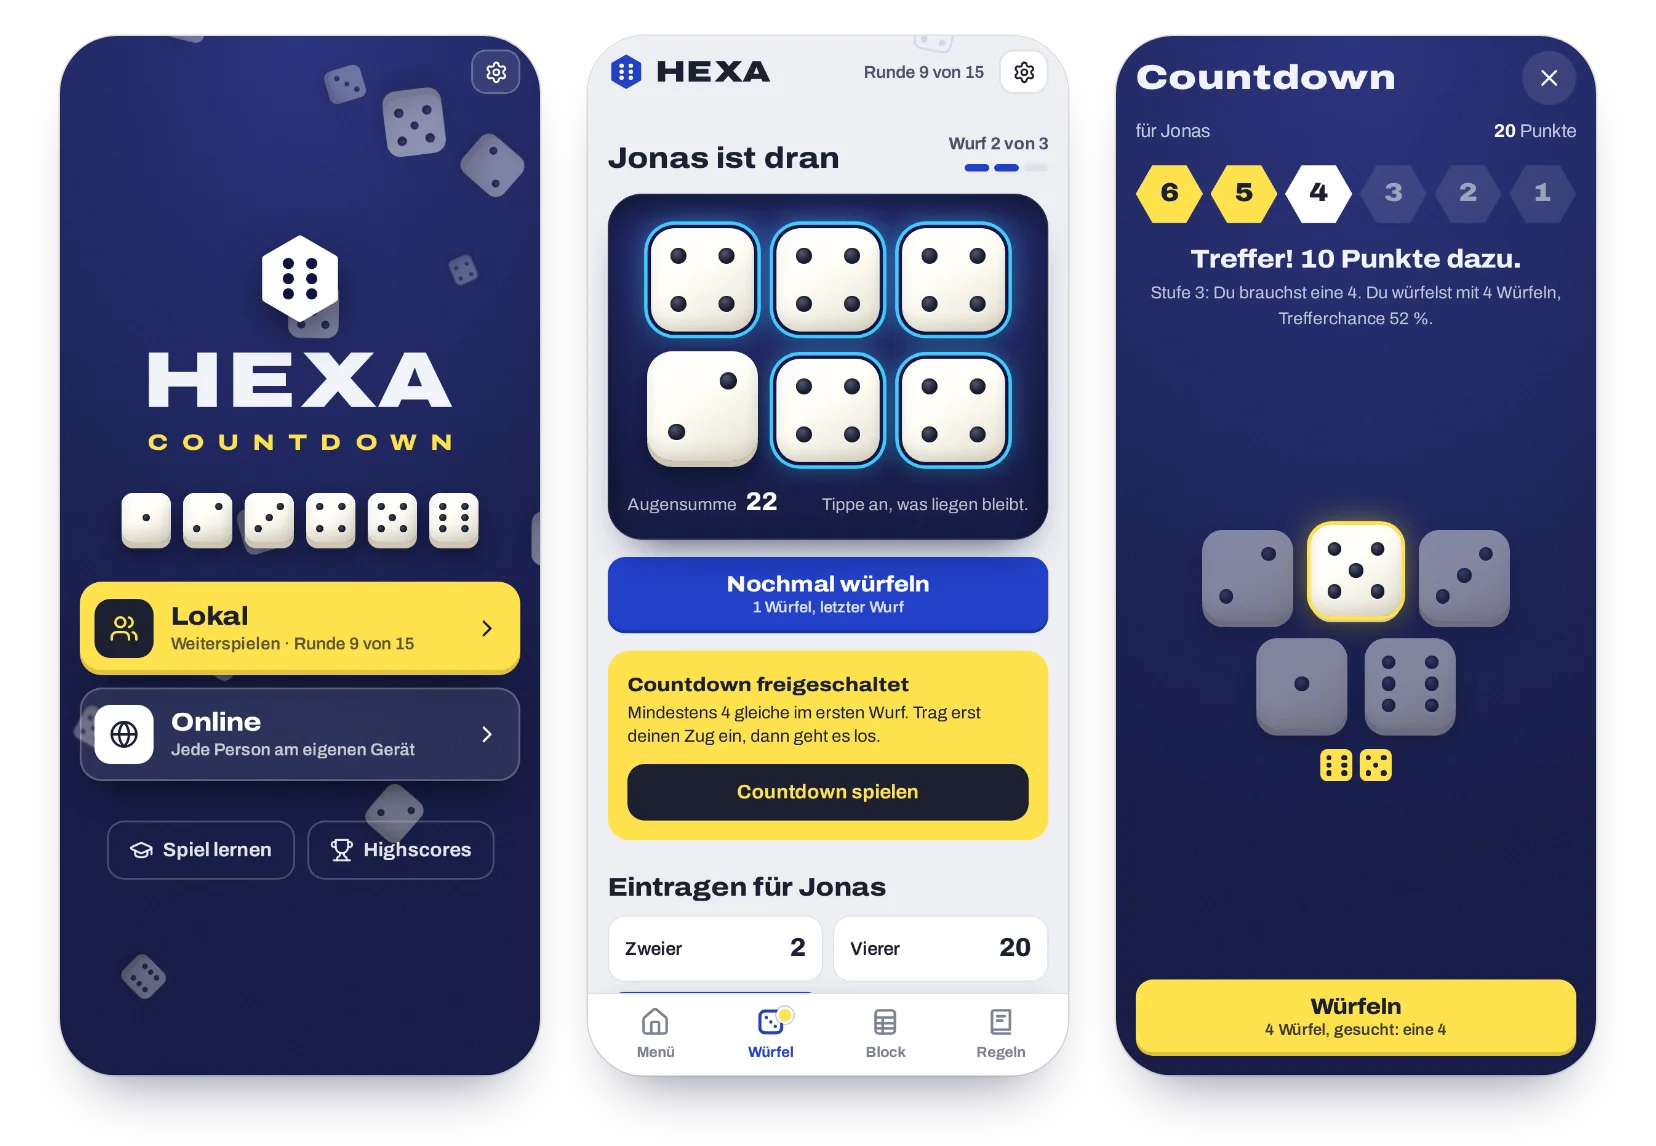
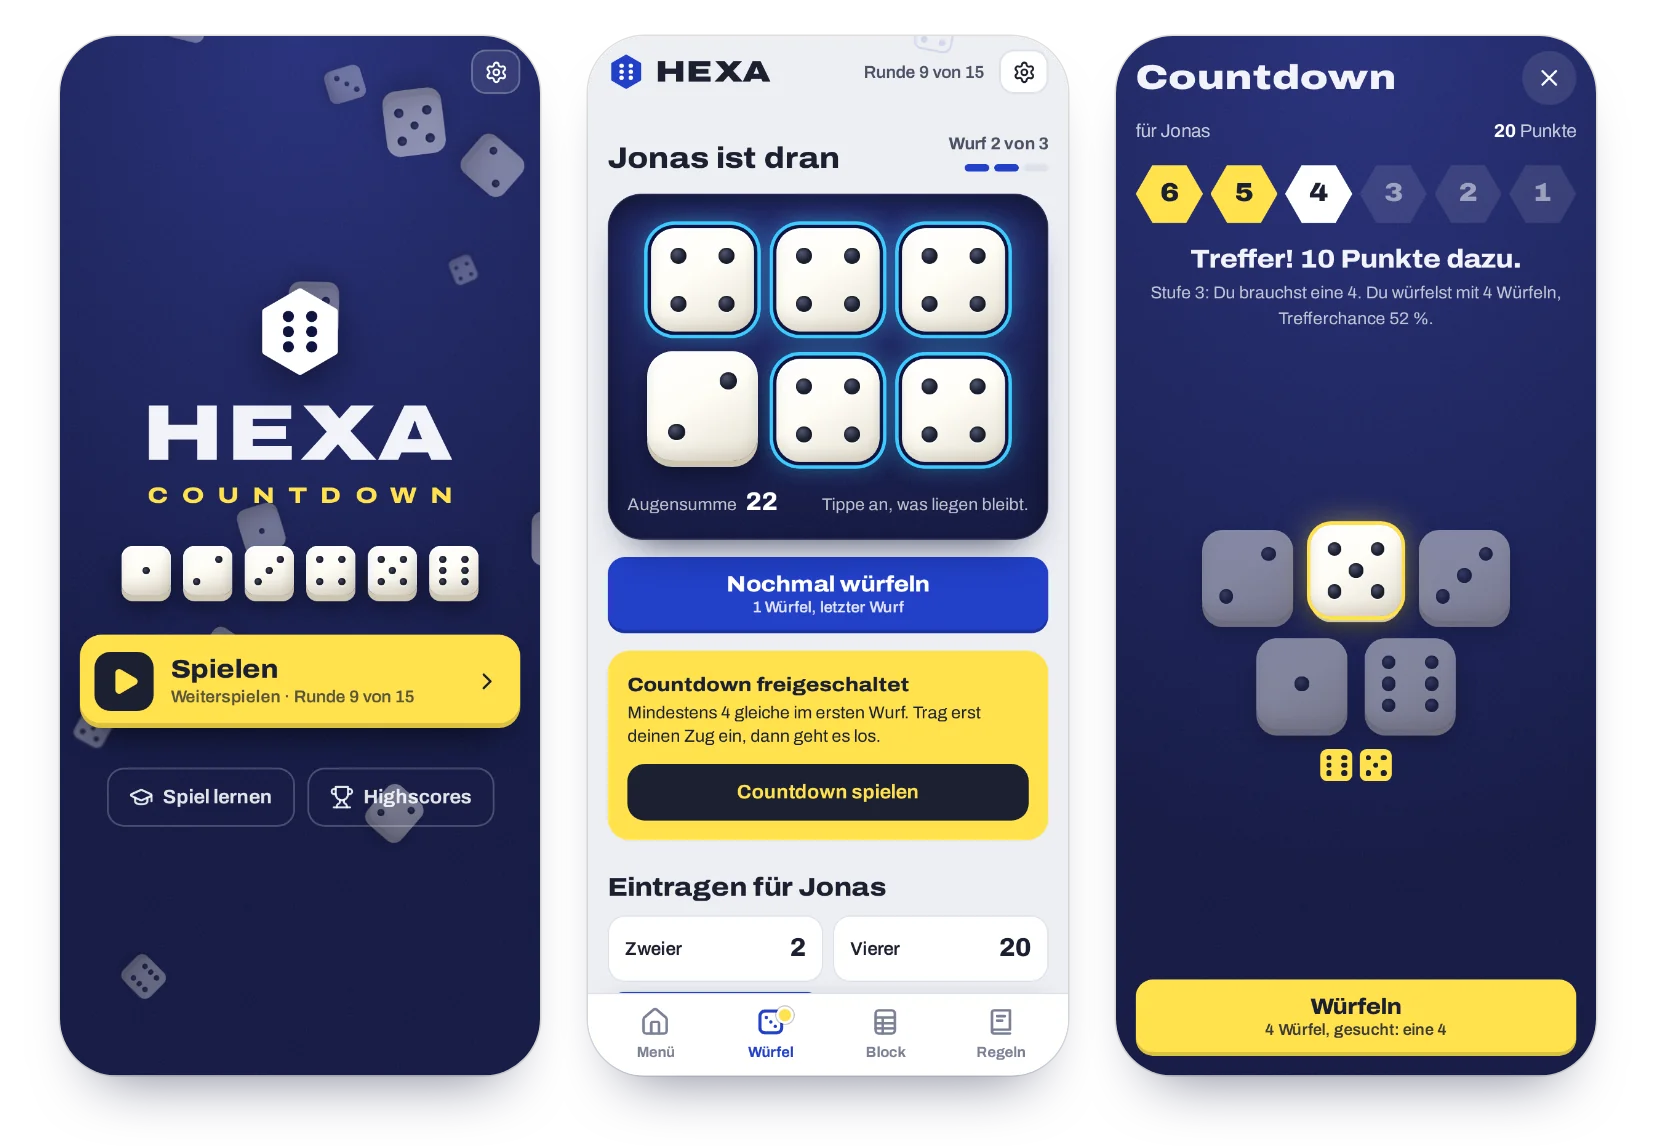
Hauptmenü: ein Knopf „Spielen“, danach Lokal oder Online
„Lokal“ stach als großer gelber Knopf heraus, „Online“ wirkte daneben
nebensächlich. Jetzt gibt es einen gelben Knopf „Spielen“. Er öffnet
ein Fenster mit „Lokal“ und „Online“, beide gleichwertig, im selben
Stil wie „Spiel lernen“.

Läuft noch ein Spiel, steht das direkt unter „Spielen“: „Weiterspielen ·
Runde 9 von 15“, „Weiterspielen · Lobby ABCD“ oder bei beiden
„Weiterspielen · lokal und online“. Sonst „Lokal oder online“. Im
Fenster stehen die Zeilen wie bisher unter „Lokal“ und „Online“.

Texte, die auf „Lokal“ oder „Online“ im Menü verwiesen haben, zeigen
jetzt auf „Spielen“. README, Changelog, Lizenzhinweise (Lucide play),
Titelbild und Vorschaubild sind angepasst.

Claude-Session: https://claude.ai/code/session_01EyxE22HJnkbi7Dpw29RZbE

Changed region(s): [[0.0308, 0.2138, 0.3388, 0.7635]]

diff --git a/js/app.js b/js/app.js
@@ -44,6 +44,7 @@
     enter: svg('<path d="m10 17 5-5-5-5"/><path d="M15 12H3"/><path d="M15 3h4a2 2 0 0 1 2 2v14a2 2 0 0 1-2 2h-4"/>'),
     copy: svg('<rect width="14" height="14" x="8" y="8" rx="2" ry="2"/><path d="M4 16c-1.1 0-2-.9-2-2V4c0-1.1.9-2 2-2h10c1.1 0 2 .9 2 2"/>'),
     rules: svg('<path d="M5 4.5A1.5 1.5 0 0 1 6.5 3H19v15H6.5A1.5 1.5 0 0 0 5 19.5z"/><path d="M5 19.5A1.5 1.5 0 0 0 6.5 21H19"/><path d="M9 7.5h6"/><path d="M9 11h4"/>'),
+    users: svg('<path d="M16 21v-2a4 4 0 0 0-4-4H6a4 4 0 0 0-4 4v2"/><path d="M16 3.128a4 4 0 0 1 0 7.744"/><path d="M22 21v-2a4 4 0 0 0-3-3.87"/><circle cx="9" cy="7" r="4"/>'),
     pip: '<svg class="pip-face" viewBox="0 0 40 40" aria-hidden="true"><path class="pf-body" d="M20 3 34.7 11.5v17L20 37 5.3 28.5v-17z"/>'
       + '<ellipse class="pf-eye" cx="14.3" cy="17.6" rx="3.8" ry="4.5"/><ellipse class="pf-eye" cx="25.7" cy="17.6" rx="3.8" ry="4.5"/>'
       + '<circle class="pf-pupil" cx="14.3" cy="17.9" r="2.2"/><circle class="pf-pupil" cx="25.7" cy="17.9" r="2.2"/>'
@@ -1977,13 +1978,43 @@
   }
 
   /* ---------- Startbildschirm ---------- */
-  function renderStart() {
-    const sub = $('#localSub');
-    if (!state.started) sub.textContent = tr('start.localNew');
-    else if (isOver()) sub.textContent = tr('start.localOver');
-    else sub.textContent = tr('start.localResume', { r: roundNo(), total: NF });
+  // Ein Knopf „Spielen“, darunter steht, ob noch ein Spiel läuft. Lokal oder online wählt man im Fenster danach.
+  function startSubs() {
     const code = Online.code();
-    $('#onlineSub').textContent = code ? tr('online.startResume', { code }) : tr('online.startSub');
+    const resume = state.started && !isOver();
+    return {
+      resume,
+      code,
+      local: !state.started ? tr('start.localNew') : isOver() ? tr('start.localOver') : tr('start.localResume', { r: roundNo(), total: NF }),
+      online: code ? tr('online.startResume', { code }) : tr('online.startSub'),
+    };
+  }
+
+  function renderStart() {
+    const s = startSubs();
+    $('#playSub').textContent = s.resume && s.code ? tr('start.playBoth')
+      : s.resume ? s.local
+        : s.code ? s.online
+          : tr('start.playSub');
+  }
+
+  function openPlay() {
+    const s = startSubs();
+    const choice = (act, icon, title, sub) => `
+          <button type="button" class="choice" data-act="sheet-do" data-do="${act}">
+            <span class="choice-ic">${ICON[icon]}</span>
+            <span class="choice-tx"><span class="choice-t">${title}</span><span class="choice-s">${sub}</span></span>
+          </button>`;
+    openSheet(`
+      <h3 class="s-title">${tr('start.play')}</h3>
+      <div class="choices">
+        ${choice('local', 'users', tr('start.local'), s.local)}
+        ${choice('online', 'globe', tr('start.online'), s.online)}
+      </div>
+      <div class="s-acts"><button type="button" class="btn btn-quiet" data-act="sheet-close">${tr('common.close')}</button></div>`, {
+      local: () => { closeSheet(true); enterLocal(); },
+      online: () => { closeSheet(true); enterOnline(); },
+    }, tr('start.play'));
   }
 
   // Sechs Würfel mit 1 bis 6, die beim Erscheinen einmal kurz rollen
@@ -2007,7 +2038,7 @@
     syncSky();
     rollStartDice();
     syncTheme();
-    const b = $('#start [data-act="local"]');
+    const b = $('#start [data-act="play"]');
     try { b.focus({ preventScroll: true }); } catch (e) { /* egal */ }
   }
 
@@ -2789,8 +2820,7 @@
     switch (t.dataset.act) {
       case 'tab': setTab(t.dataset.tab); break;
       case 'duo': toggleDuo(); break;
-      case 'local': enterLocal(); break;
-      case 'online': enterOnline(); break;
+      case 'play': openPlay(); break;
       case 'ol-home': exitOnline(); break;
       case 'ol-create': { const name = onlineNameFromInput(); if (name) olRequest({ t: 'create', name }); break; }
       case 'ol-join': openJoin(); break;

diff --git a/index.html b/index.html
@@ -46,15 +46,10 @@
       <h1 class="start-name" id="startName">HEXA<span class="sr">: </span><span class="start-sub">Countdown</span></h1>
     </header>
     <div class="start-dice" id="startDice" aria-hidden="true"></div>
-    <div class="start-modes" role="group" data-i18n-label="start.modes">
-      <button type="button" class="mode mode-local" data-act="local">
-        <span class="mode-ic"><svg viewBox="0 0 24 24" fill="none" stroke="currentColor" stroke-width="2" stroke-linecap="round" stroke-linejoin="round" aria-hidden="true"><path d="M16 21v-2a4 4 0 0 0-4-4H6a4 4 0 0 0-4 4v2"/><path d="M16 3.128a4 4 0 0 1 0 7.744"/><path d="M22 21v-2a4 4 0 0 0-3-3.87"/><circle cx="9" cy="7" r="4"/></svg></span>
-        <span class="mode-tx"><span class="mode-t" data-i18n="start.local"></span><span class="mode-s" id="localSub"></span></span>
-        <svg viewBox="0 0 24 24" fill="none" stroke="currentColor" stroke-width="2" stroke-linecap="round" stroke-linejoin="round" class="mode-go" aria-hidden="true"><path d="m9 6 6 6-6 6"/></svg>
-      </button>
-      <button type="button" class="mode mode-online" data-act="online">
-        <span class="mode-ic"><svg viewBox="0 0 24 24" fill="none" stroke="currentColor" stroke-width="2" stroke-linecap="round" stroke-linejoin="round" aria-hidden="true"><circle cx="12" cy="12" r="10"/><path d="M12 2a14.5 14.5 0 0 0 0 20 14.5 14.5 0 0 0 0-20"/><path d="M2 12h20"/></svg></span>
-        <span class="mode-tx"><span class="mode-t" data-i18n="start.online"></span><span class="mode-s" id="onlineSub"></span></span>
+    <div class="start-modes">
+      <button type="button" class="mode mode-play" data-act="play">
+        <span class="mode-ic"><svg viewBox="0 0 24 24" fill="none" stroke="currentColor" stroke-width="2" stroke-linecap="round" stroke-linejoin="round" aria-hidden="true"><path d="M5 5a2 2 0 0 1 3.008-1.728l11.997 6.998a2 2 0 0 1 .003 3.458l-12 7A2 2 0 0 1 5 19z" fill="currentColor"/></svg></span>
+        <span class="mode-tx"><span class="mode-t" data-i18n="start.play"></span><span class="mode-s" id="playSub"></span></span>
         <svg viewBox="0 0 24 24" fill="none" stroke="currentColor" stroke-width="2" stroke-linecap="round" stroke-linejoin="round" class="mode-go" aria-hidden="true"><path d="m9 6 6 6-6 6"/></svg>
       </button>
     </div>

diff --git a/css/hexa.css b/css/hexa.css
@@ -942,17 +942,10 @@ html:not(.ready) .start-in > :not(noscript) { visibility: hidden; }
 .mode-t { display: block; font-size: 21px; font-weight: 800; font-stretch: 112%; line-height: 1.15; }
 .mode-s { display: block; margin-top: 2px; font-size: 14px; font-weight: 600; line-height: 1.3; text-wrap: balance; }
 .mode-go { width: 22px; height: 22px; }
-.mode-local { background: var(--marker); color: #1C2030; box-shadow: inset 0 -4px 0 rgba(0, 0, 0, .14), 0 18px 30px -18px rgba(0, 0, 0, .8); }
-.mode-local .mode-ic { background: #1C2030; color: var(--marker); }
-.mode-local .mode-s { color: rgba(28, 32, 48, .72); }
-.mode-online {
-  background: rgba(255, 255, 255, .09); color: #FFFFFF;
-  box-shadow: inset 0 0 0 1.5px rgba(255, 255, 255, .24), 0 18px 30px -18px rgba(0, 0, 0, .8);
-  transition: transform .1s ease, background-color .15s ease;
-}
-.mode-online .mode-ic { background: #FFFFFF; color: #1C2030; }
-.mode-online .mode-s { color: rgba(255, 255, 255, .74); }
-@media (hover: hover) { .mode-online:hover { background: rgba(255, 255, 255, .15); } }
+.mode-play { background: var(--marker); color: #1C2030; box-shadow: inset 0 -4px 0 rgba(0, 0, 0, .14), 0 18px 30px -18px rgba(0, 0, 0, .8); }
+.mode-play .mode-ic { background: #1C2030; color: var(--marker); }
+.mode-play .mode-ic svg { margin-left: 2px; }
+.mode-play .mode-s { color: rgba(28, 32, 48, .72); }
 .start-links { display: flex; flex-wrap: wrap; justify-content: center; gap: 10px; }
 .start-set {
   display: inline-flex; align-items: center; gap: 8px; min-height: 48px; padding: 10px 18px;

diff --git a/lang/de.js b/lang/de.js
@@ -25,7 +25,9 @@
     },
 
     start: {
-      modes: 'Spielmodus',
+      play: 'Spielen',
+      playSub: 'Lokal oder online',
+      playBoth: 'Weiterspielen · lokal und online',
       local: 'Lokal',
       localNew: 'Ein Gerät, reihum spielen',
       localOver: 'Spiel beendet · Ergebnis ansehen',
@@ -314,7 +316,7 @@
       round: 'Ihr seid in Runde {r} von {total}.',
       cdOpen: 'Alle Runden sind gespielt, nur der Countdown ist noch offen.',
       pause: 'Pausieren',
-      pauseSub: 'Das Spiel bleibt gespeichert. Im Menü geht es mit „Lokal“ weiter.',
+      pauseSub: 'Das Spiel bleibt gespeichert. Im Menü geht es mit „Spielen“ weiter.',
       abort: 'Spiel abbrechen',
       abortSub: 'Alle Punkte werden gelöscht. Es gibt keinen Highscore.',
       back: 'Zurück zum Spiel',
@@ -417,7 +419,7 @@
       playerOff: '{name}, gerade nicht verbunden',
       menuNote: 'Runde {r} von {total} · Lobby {code}',
       away: 'Zum Hauptmenü',
-      awaySub: 'Das Spiel läuft ohne dich weiter. Bei jedem verpassten Zug wird ein Feld gestrichen. Über „Online“ kommst du zurück.',
+      awaySub: 'Das Spiel läuft ohne dich weiter. Bei jedem verpassten Zug wird ein Feld gestrichen. Über „Spielen“ kommst du zurück.',
       leaveGame: 'Spiel verlassen',
       leaveGameSub: 'Du bist raus, deine Punkte sind weg.',
       leaveTitle: 'Spiel wirklich verlassen?',

diff --git a/lang/en.js b/lang/en.js
@@ -23,7 +23,9 @@
     },
 
     start: {
-      modes: 'Game mode',
+      play: 'Play',
+      playSub: 'Local or online',
+      playBoth: 'Continue · local and online',
       local: 'Local',
       localNew: 'One device, take turns',
       localOver: 'Game over · See the results',
@@ -312,7 +314,7 @@
       round: 'You’re in round {r} of {total}.',
       cdOpen: 'All rounds have been played, only the Countdown is still open.',
       pause: 'Pause',
-      pauseSub: 'The game is saved. Tap “Local” in the menu to carry on.',
+      pauseSub: 'The game is saved. Tap “Play” in the menu to carry on.',
       abort: 'Quit game',
       abortSub: 'All points will be deleted. There’s no high score.',
       back: 'Back to the game',
@@ -415,7 +417,7 @@
       playerOff: '{name}, not connected right now',
       menuNote: 'Round {r} of {total} · Lobby {code}',
       away: 'To the main menu',
-      awaySub: 'The game goes on without you. Each missed turn strikes a field. Tap “Online” to come back.',
+      awaySub: 'The game goes on without you. Each missed turn strikes a field. Tap “Play” to come back.',
       leaveGame: 'Leave game',
       leaveGameSub: 'You are out and your points are gone.',
       leaveTitle: 'Really leave the game?',

diff --git a/README.md b/README.md
@@ -36,7 +36,7 @@ Die App ersetzt Würfel, Becher, Block und Stift. Ihr gebt einfach das Handy rei
 
 ## So läuft ein Spiel
 
-1. Im Hauptmenü **Lokal** wählen und eintragen, wer mitspielt. Mit **Bot hinzufügen** kommen Computergegner dazu.
+1. Im Hauptmenü auf **Spielen** tippen, **Lokal** wählen und eintragen, wer mitspielt. Mit **Bot hinzufügen** kommen Computergegner dazu.
 2. Entscheiden, **womit ihr würfelt**: mit der App oder mit euren eigenen Würfeln. Den Spielblock führt die App in beiden Fällen. Mit Bots würfelt immer die App.
 3. Reihum spielen. Über **Menü** könnt ihr jederzeit pausieren und später weitermachen.
 4. Nach 15 Runden auf **Spiel beenden** tippen. Das Ergebnis zeigt die Platzierung, die Punkte landen in den **Highscores**.
@@ -52,13 +52,13 @@ Die App ersetzt Würfel, Becher, Block und Stift. Ihr gebt einfach das Handy rei
 
 Jede Person spielt am eigenen Handy, egal wo. Es gibt keine Konten, nur Spitznamen.
 
-1. Im Hauptmenü **Online** wählen und einen Spitznamen eingeben.
+1. Im Hauptmenü auf **Spielen** tippen, **Online** wählen und einen Spitznamen eingeben.
 2. Eine Person tippt auf **Lobby erstellen** und bekommt einen Code aus 4 Buchstaben. Die anderen tippen auf **Lobby beitreten** und geben den Code ein.
 3. Der Host legt die Reihenfolge fest und startet das Spiel. Allein geht auch.
 4. Jeder Zug hat 60 Sekunden. Die Zugleiste oben zeigt, wer dran ist und wie viel Zeit bleibt. Ab 10 Sekunden wird sie rot. Die anderen sehen die Würfel live mitrollen.
 5. Nach dem Spiel geht es mit **Nochmal** zurück in dieselbe Lobby. Dein Ergebnis landet in deinen Highscores.
 
-Der Server würfelt und prüft jeden Zug. Ist die Zeit um, streicht er ein zufälliges freies Feld. Handy gesperrt oder kurz kein Netz? Die App verbindet sich von selbst neu. Über **Menü → Zum Hauptmenü** läuft das Spiel ohne dich weiter, im Hauptmenü steht dann **Weiterspielen**.
+Der Server würfelt und prüft jeden Zug. Ist die Zeit um, streicht er ein zufälliges freies Feld. Handy gesperrt oder kurz kein Netz? Die App verbindet sich von selbst neu. Über **Menü → Zum Hauptmenü** läuft das Spiel ohne dich weiter, im Hauptmenü steht dann unter **Spielen** „Weiterspielen“.
 
 <div align="center">
 <picture>
@@ -69,7 +69,7 @@ Der Server würfelt und prüft jeden Zug. Ist die Zeit um, streicht er ein zufä
 
 ## Features
 
-- **Hauptmenü** – lokal auf einem Gerät reihum spielen oder online mit anderen, das Spiel lernen, Highscores ansehen. Die Einstellungen stecken oben rechts im Zahnrad, wie im Spiel.
+- **Hauptmenü** – ein Knopf **Spielen**, danach lokal auf einem Gerät reihum oder online mit anderen. Läuft noch ein Spiel, steht das gleich darunter. Dazu das Spiel lernen und die Highscores. Die Einstellungen stecken oben rechts im Zahnrad, wie im Spiel.
 - **Mit App- oder eigenen Würfeln** – vor dem Spiel wählen: Die App würfelt für euch, oder ihr würfelt selbst und nutzt nur den Spielblock.
 - **Würfeln mit Gefühl** – sechs Würfel mit Klackern und Vibration, geworfen auf sieben Arten: kullern, hochwerfen, über den Tisch rollen, schütteln, hüpfen, kreiseln oder als Welle. Keine Art kommt öfter als einmal in vier Würfen. Tippen hält einen Würfel fest, nochmal Tippen löst ihn wieder.
 - **Kleine Belohnungen** – steigende Töne bei 4, 5 und 6 gleichen, ein Lauf für die Große Straße und Konfetti für seltene Momente wie sechs gleiche oder einen neuen Rekord.

diff --git a/THIRD-PARTY-NOTICES.md b/THIRD-PARTY-NOTICES.md
@@ -13,7 +13,7 @@ Die Schriftdateien sind die unveränderten WOFF2-Dateien von Google Fonts (Archi
 
 ## Icons
 
-Einige Icons stammen aus [Lucide](https://lucide.dev) oder sind an Lucide-Icons angelehnt: Zahnrad (`settings`), Sonne (`sun`), Mond (`moon`), Halbkreis (`contrast`), Musik (`music`), Lautsprecher (`volume-2`), Globus (`globe`), Personen (`users`), Würfel (`dices`), Haus (`house`), Pokal (`trophy`), Doktorhut (`graduation-cap`), Handy (`smartphone`), Pause (`pause`), Roboter (`bot`), Schließen (`x`), Plus (`plus`), Eintreten (`log-in`), Kopieren (`copy`), Pfeile (`arrow-up`, `arrow-down`) und Winkel (`chevron-down`, `chevron-left`, `chevron-right`). Sie sind als SVG direkt in `index.html` und `js/app.js` eingebaut.
+Einige Icons stammen aus [Lucide](https://lucide.dev) oder sind an Lucide-Icons angelehnt: Zahnrad (`settings`), Sonne (`sun`), Mond (`moon`), Halbkreis (`contrast`), Musik (`music`), Lautsprecher (`volume-2`), Globus (`globe`), Personen (`users`), Würfel (`dices`), Haus (`house`), Pokal (`trophy`), Doktorhut (`graduation-cap`), Abspielen (`play`), Handy (`smartphone`), Pause (`pause`), Roboter (`bot`), Schließen (`x`), Plus (`plus`), Eintreten (`log-in`), Kopieren (`copy`), Pfeile (`arrow-up`, `arrow-down`) und Winkel (`chevron-down`, `chevron-left`, `chevron-right`). Sie sind als SVG direkt in `index.html` und `js/app.js` eingebaut.
 
 Die übrigen Icons, das Logo, die App-Icons, die Klänge und die Musik sind Teil von HEXA.
 

diff --git a/CHANGELOG.md b/CHANGELOG.md
@@ -3,6 +3,13 @@
 Alle wichtigen Änderungen an HEXA: Countdown stehen hier.
 Das Format folgt [Keep a Changelog](https://keepachangelog.com/de/1.1.0/), die Versionen folgen [Semantic Versioning](https://semver.org/lang/de/).
 
+## [Unreleased]
+
+### Geändert
+
+- **Hauptmenü mit einem Knopf „Spielen“:** Statt „Lokal“ in Gelb und „Online“ daneben gibt es jetzt einen Knopf „Spielen“. Danach kommt ein Fenster mit „Lokal“ und „Online“, beide gleichwertig. Läuft noch ein Spiel, steht das direkt unter „Spielen“, etwa „Weiterspielen · Runde 9 von 15“ oder „Weiterspielen · Lobby ABCD“.
+- **README und Vorschaubild:** zeigen das neue Hauptmenü.
+
 ## [1.10.0] – 2026-09-28
 
 „Spiel lernen“ im Hauptmenü: die Regeln schon vor dem ersten Spiel.
